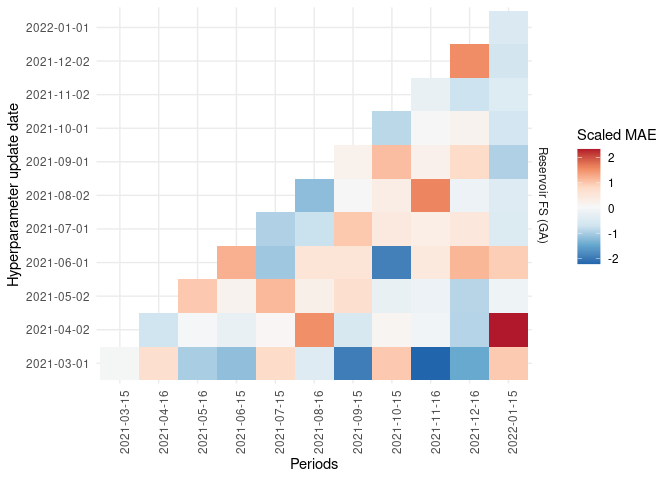
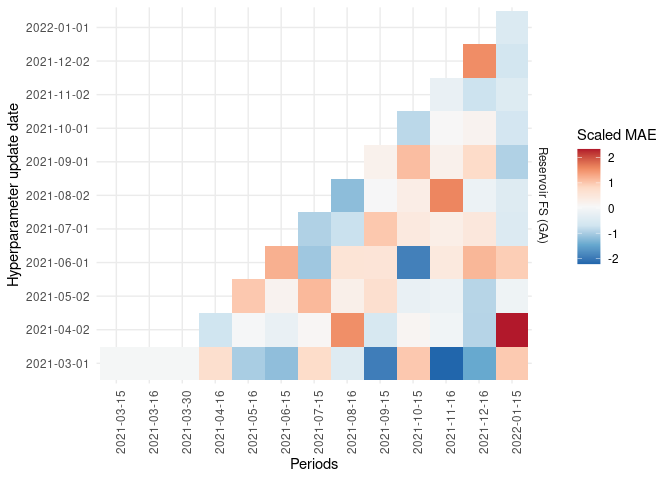
update results with 7 21 and 10 esn

diff --git a/script/results_high_dim_rc.md b/script/results_high_dim_rc.md
@@ -77,6 +77,54 @@ The total number of features is 409.
    <td style="text-align:right;"> 1.11 </td>
   </tr>
   <tr>
+   <td style="text-align:left;"> Reservoir FS (GA - 10 esn) </td>
+   <td style="text-align:left;"> No </td>
+   <td style="text-align:right;"> 15.46 </td>
+   <td style="text-align:right;"> 12.31 </td>
+   <td style="text-align:right;"> -3.13 </td>
+   <td style="text-align:right;"> 9.06 </td>
+   <td style="text-align:right;"> 0.29 </td>
+   <td style="text-align:right;"> 0.32 </td>
+   <td style="text-align:right;"> 0.82 </td>
+   <td style="text-align:right;"> 1.85 </td>
+  </tr>
+  <tr>
+   <td style="text-align:left;"> Reservoir FS (GA - 10 esn) </td>
+   <td style="text-align:left;"> Yes </td>
+   <td style="text-align:right;"> 15.48 </td>
+   <td style="text-align:right;"> 12.61 </td>
+   <td style="text-align:right;"> -3.11 </td>
+   <td style="text-align:right;"> 9.11 </td>
+   <td style="text-align:right;"> 0.28 </td>
+   <td style="text-align:right;"> 0.31 </td>
+   <td style="text-align:right;"> 0.84 </td>
+   <td style="text-align:right;"> 1.93 </td>
+  </tr>
+  <tr>
+   <td style="text-align:left;"> Reservoir FS 7 days (GA) </td>
+   <td style="text-align:left;"> No </td>
+   <td style="text-align:right;"> 8.94 </td>
+   <td style="text-align:right;"> 7.82 </td>
+   <td style="text-align:right;"> -2.07 </td>
+   <td style="text-align:right;"> 5.22 </td>
+   <td style="text-align:right;"> 0.15 </td>
+   <td style="text-align:right;"> 0.20 </td>
+   <td style="text-align:right;"> 0.83 </td>
+   <td style="text-align:right;"> 3.54 </td>
+  </tr>
+  <tr>
+   <td style="text-align:left;"> Reservoir FS 21 days (GA) </td>
+   <td style="text-align:left;"> No </td>
+   <td style="text-align:right;"> 25.48 </td>
+   <td style="text-align:right;"> 16.22 </td>
+   <td style="text-align:right;"> 0.14 </td>
+   <td style="text-align:right;"> 2.21 </td>
+   <td style="text-align:right;"> 0.52 </td>
+   <td style="text-align:right;"> 0.50 </td>
+   <td style="text-align:right;"> 1.00 </td>
+   <td style="text-align:right;"> 2.62 </td>
+  </tr>
+  <tr>
    <td style="text-align:left;"> Reservoir FS (GA) all anteriority </td>
    <td style="text-align:left;"> No </td>
    <td style="text-align:right;"> 15.71 </td>
@@ -207,6 +255,30 @@ The total number of features is 409.
    <td style="text-align:right;"> 0.46 </td>
    <td style="text-align:right;"> 0.89 </td>
    <td style="text-align:right;"> 2.40 </td>
+  </tr>
+  <tr>
+   <td style="text-align:left;"> XGB 21 days (RS) </td>
+   <td style="text-align:left;"> No </td>
+   <td style="text-align:right;"> 25.85 </td>
+   <td style="text-align:right;"> 22.65 </td>
+   <td style="text-align:right;"> 0.51 </td>
+   <td style="text-align:right;"> 23.37 </td>
+   <td style="text-align:right;"> 0.47 </td>
+   <td style="text-align:right;"> 1.13 </td>
+   <td style="text-align:right;"> 0.87 </td>
+   <td style="text-align:right;"> NaN </td>
+  </tr>
+  <tr>
+   <td style="text-align:left;"> XGB 7 days (RS) </td>
+   <td style="text-align:left;"> No </td>
+   <td style="text-align:right;"> 8.96 </td>
+   <td style="text-align:right;"> 7.69 </td>
+   <td style="text-align:right;"> -2.04 </td>
+   <td style="text-align:right;"> 6.33 </td>
+   <td style="text-align:right;"> 0.14 </td>
+   <td style="text-align:right;"> 0.22 </td>
+   <td style="text-align:right;"> 0.80 </td>
+   <td style="text-align:right;"> 5.20 </td>
   </tr>
   <tr>
    <td style="text-align:left;"> LSTM-PCA </td>
